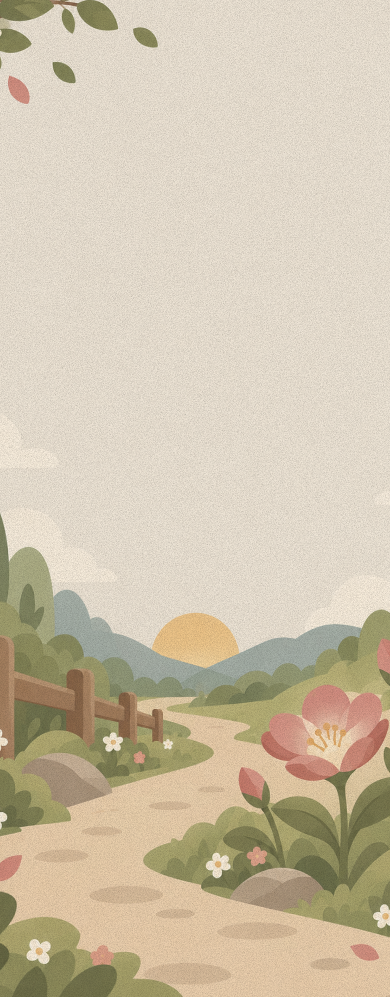
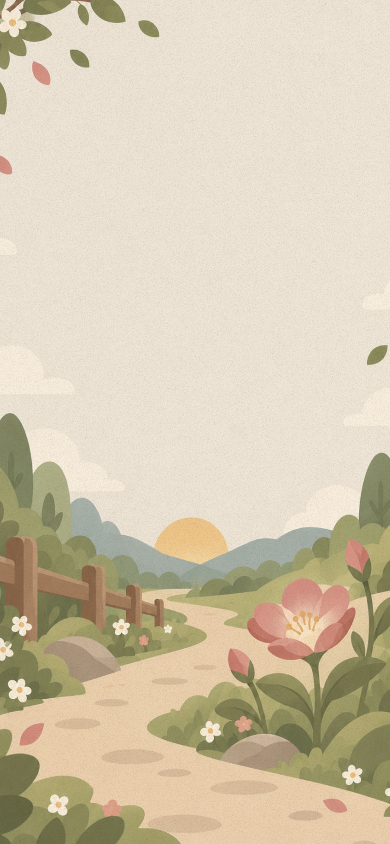
Use original intro background dimensions

diff --git a/FrontEnd/src/pages/IntroPage.css b/FrontEnd/src/pages/IntroPage.css
@@ -26,7 +26,7 @@
   background-image: url('../assets/intro-garden-bg.png');
   background-position: center;
   background-repeat: no-repeat;
-  background-size: 100% 100%;
+  background-size: 390px 844px;
   filter: none;
   transform: scale(1.01);
   content: '';
@@ -308,7 +308,7 @@
   }
 
   .intro-page::before {
-    background-size: cover;
+    background-size: 390px 844px;
   }
 
   .intro-card {
